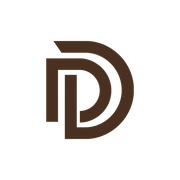
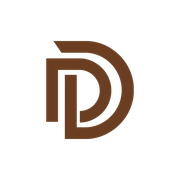
Switch palette to variant K: chestnut brown + white + burnt orange buttons
Claude-Session: https://claude.ai/code/session_015Z27SisgaN4DwkVY1Vowgr

Changed region(s): [[0.25, 0.2222, 0.75, 0.7778]]

diff --git a/index.html b/index.html
@@ -16,7 +16,7 @@
 <link rel="preconnect" href="https://fonts.gstatic.com" crossorigin>
 <link href="https://fonts.googleapis.com/css2?family=Inter:wght@400;500;600&family=Space+Grotesk:wght@700&display=swap" rel="stylesheet">
 <style>
-/* Khoang cach, co chu theo theme Shopify cu (02/11/2026). Mau: ban H nau espresso + trang + cam dat (Bean chot 04/11/2026), khai bao o cuoi file */
+/* Thong so do tu dealdockus.com (theme Shopify "DealDock Dark"), 02/11/2026 */
 :root{
   --grad:linear-gradient(135deg,#10B981 0%,#06B6D4 50%,#3B82F6 100%);
   --emerald:#34D399;--cyan:#06B6D4;
@@ -118,10 +118,13 @@ footer{background:#080809;border-top:1px solid var(--line);padding:36px 0}
   .btn{font-size:11px}
 }
 @media (prefers-reduced-motion:reduce){html{scroll-behavior:auto}.btn,.card{transition:none}}
-:root{--bg:#FFFFFF;--alt:#F8F6F3;--hdr:rgba(255,255,255,.95);--surface:#F8F6F3;--surface-h:#F1EDE8;--line:#E7E1DA;
---t1:#211A15;--t2:#3F3530;--t3:#655A53;--t4:#978C84;--main:#4A3020;--btn:#4A3020;--btn-h:#38241A;--headline:#C2571A;--accent:#C2571A;
---icon-bg:rgba(194,87,26,.10);--icon:#B04E17;--block:#3B271B;--block-accent:#E8935A;--block-btn-text:#211A15;--foot:#2A1C14}
+:root{--bg:#FFFFFF;--alt:#FBF6F0;--hdr:rgba(255,255,255,.95);--surface:#FBF6F0;--surface-h:#F5ECE1;--line:#EDE1D3;
+--t1:#25190F;--t2:#45332A;--t3:#6A584B;--t4:#9C8979;--main:#6B3E21;--btn:#D2601A;--btn-h:#B9520F;--headline:#D2601A;--accent:#C2571A;
+--icon-bg:rgba(210,96,26,.11);--icon:#C2571A;--block:#63391F;--block-accent:#F0A25F;--block-btn-text:#25190F;--foot:#2F1D12}
 #about .card{background:#fff}
+.hero{background:linear-gradient(180deg,#FFF8F1 0%,#FFFFFF 100%)}
+.btn-primary{box-shadow:0 4px 12px rgba(210,96,26,.22)}
+#partners .btn-primary{box-shadow:none}
 body{background:var(--bg);color:var(--t1)}
 header{background:var(--hdr)}
 .nav{border-bottom:1px solid var(--line)}

diff --git a/404.html b/404.html
@@ -1,1 +1,1 @@
-<!DOCTYPE html><html lang="en"><head><meta charset="utf-8"><meta name="viewport" content="width=device-width, initial-scale=1"><title>Page not found | DealDock</title><link rel="icon" type="image/png" href="/assets/favicon.png"><style>body{margin:0;min-height:100vh;display:grid;place-items:center;background:#fff;color:#655A53;font-family:-apple-system,"SF Pro Display",Inter,"Helvetica Neue",Arial,sans-serif;text-align:center}h1{color:#211A15;font-size:44px;letter-spacing:-.04em;margin:0 0 12px}a{display:inline-block;margin-top:24px;background:#4A3020;color:#fff;font-weight:500;padding:10px 22px;font-size:13px;border-radius:999px;text-decoration:none}</style></head><body><div><h1>Page not found</h1><p>The page you are looking for has moved or no longer exists.</p><a href="/">Back to DealDock</a></div></body></html>
+<!DOCTYPE html><html lang="en"><head><meta charset="utf-8"><meta name="viewport" content="width=device-width, initial-scale=1"><title>Page not found | DealDock</title><link rel="icon" type="image/png" href="/assets/favicon.png"><style>body{margin:0;min-height:100vh;display:grid;place-items:center;background:#fff;color:#655A53;font-family:-apple-system,"SF Pro Display",Inter,"Helvetica Neue",Arial,sans-serif;text-align:center}h1{color:#25190F;font-size:44px;letter-spacing:-.04em;margin:0 0 12px}a{display:inline-block;margin-top:24px;background:#D2601A;color:#fff;font-weight:500;padding:10px 22px;font-size:13px;border-radius:999px;text-decoration:none}</style></head><body><div><h1>Page not found</h1><p>The page you are looking for has moved or no longer exists.</p><a href="/">Back to DealDock</a></div></body></html>
